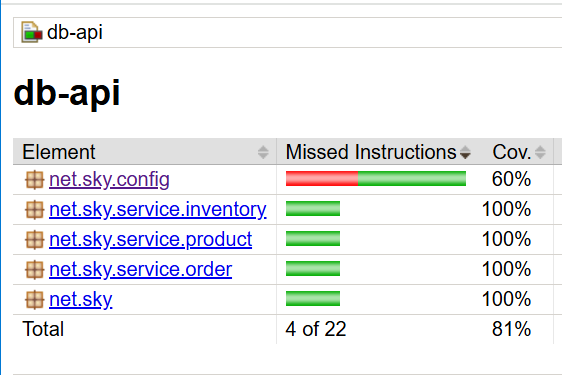
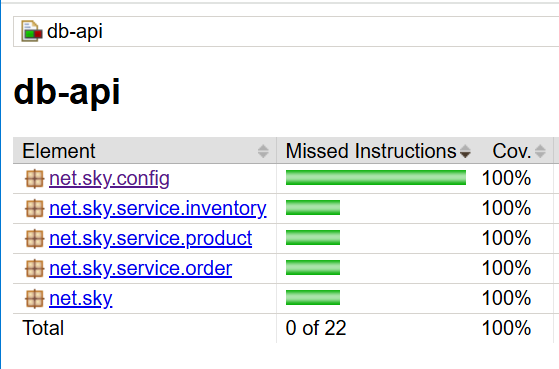
Test

diff --git a/db-api/src/test/java/com/ilan/config/CustomScanConfigTest.java b/db-api/src/test/java/com/ilan/config/CustomScanConfigTest.java
@@ -1,0 +1,18 @@
+package com.ilan.config;
+
+import net.sky.config.CustomScanConfig;
+import org.junit.jupiter.api.Test;
+import org.springframework.beans.factory.annotation.Autowired;
+import org.springframework.boot.test.context.SpringBootTest;
+
+@SpringBootTest
+public class CustomScanConfigTest {
+
+    @Autowired
+    CustomScanConfig customScanConfig;
+
+    @Test
+    void propertySourcesPlaceholder() {
+        customScanConfig.propertySourcesPlaceholderConfigurer();
+    }
+}
